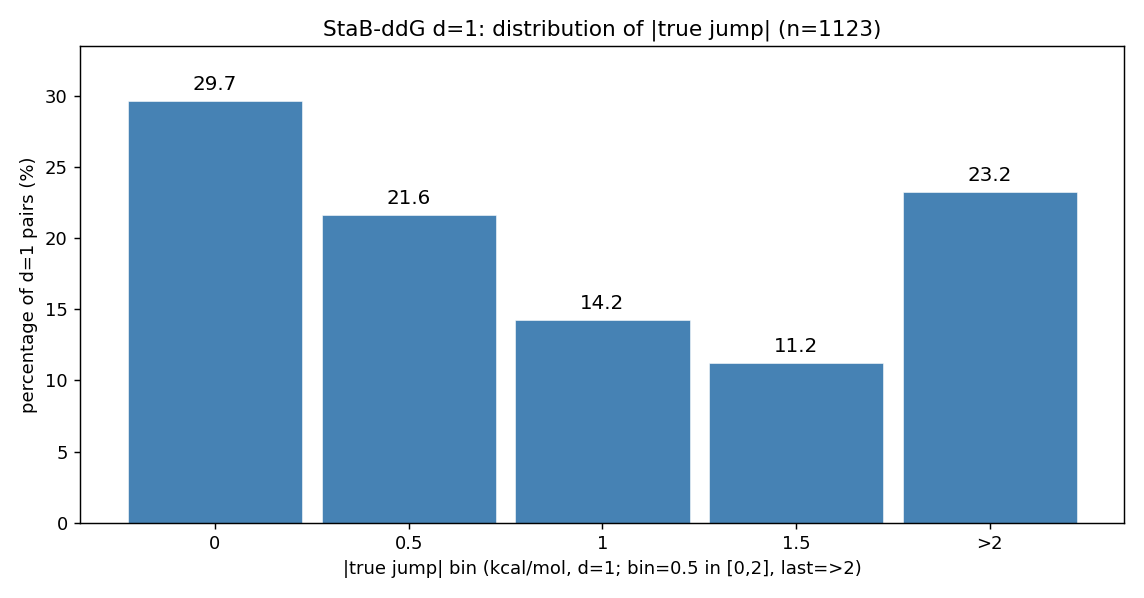
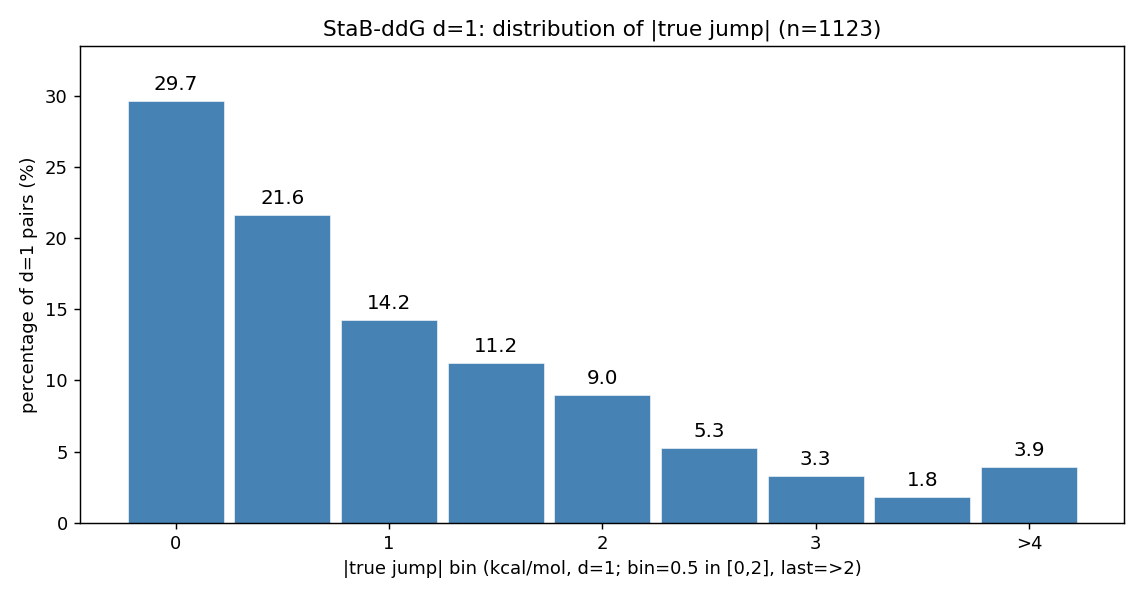
mutation-cliff §7.2: rebin StaB d=1 figures to {0~4 by 0.5}+>4; captions updated

diff --git a/reproduce/mutation_cliff_viz_stab.py b/reproduce/mutation_cliff_viz_stab.py
@@ -121,8 +121,8 @@ print("abnormal:");[print("|",*[f"{v}" for v in r],"|") for r in show(ab,5)]
 # ===== §4.2 d=1 误差直方图 [0,5) step 0.5 + >5 (percentage) =====
 d1=P[P.d==1].copy(); d1["jerr"]=(d1.pred_jump-d1.true_jump).abs()
 print(f"\n[S4.2 d=1 jerr] n={len(d1)} median={d1.jerr.median():.2f} p90={d1.jerr.quantile(.9):.2f} >5pct={100*(d1.jerr>5).mean():.1f}%")
-hedges=[round(0.5*i,1) for i in range(5)]+[1e9]   # [0,2) step 0.5 + >2
-XT=[0,1,2,3,4]; XL=["0","0.5","1","1.5",">2"]; FS=(8.8,4.6)
+hedges=[round(0.5*i,1) for i in range(9)]+[1e9]   # [0,4) step 0.5 + >4
+XT=[0,2,4,6,8]; XL=["0","1","2","3",">4"]; FS=(8.8,4.6)
 hpct=100*np.histogram(d1.jerr.values,bins=hedges)[0]/len(d1); hxs=np.arange(len(hpct))
 fig,ax=plt.subplots(figsize=FS)
 ax.bar(hxs,hpct,width=0.9,color="steelblue",edgecolor="white",linewidth=0.3)
